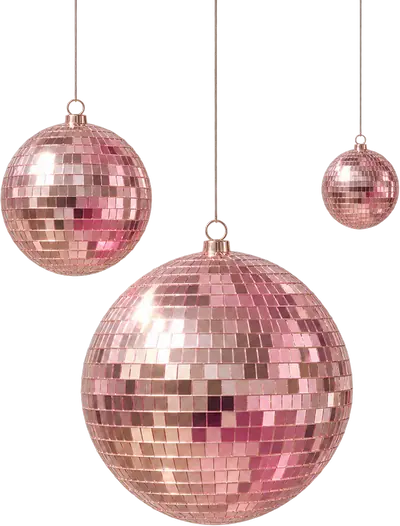
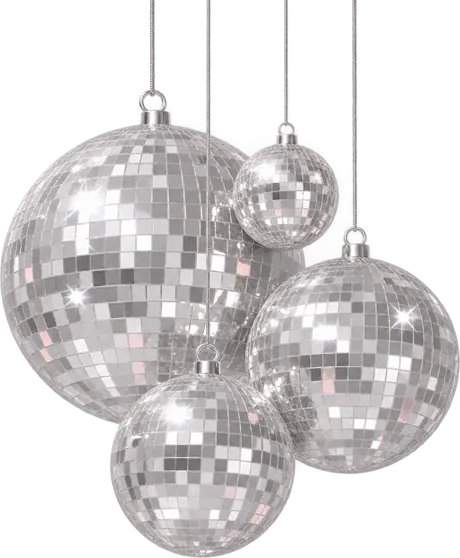
El telón es ahora una cortina de flecos, y las bolas son de espejo
Los flecos miden 8,5 px de ancho en pantalla, contra los 15 de las
lentejuelas y los 17 de un renglón: por fin el fondo es más fino que la
letra y se queda detrás en vez de competir.

Esta vez los paneles no piden prestada la silueta de las flores. La cortina
trae su propio canto —los remates desiguales abajo y el corte recto a los
lados, que es como se corta una cortina—, y las proporciones del recorte son
las de cada panel para que las tiras no se estiren. Al abrirse, las tiras se
apartan de verdad y dejan dos franjas de fleco enmarcando la fotografía.

Las esferas pasan a ser el racimo plateado de cuatro bolas de espejo, que es
lo que usa la referencia: plata, grandes y en grupo, no rosas y de una en una.

Comprobado en el Chrome de Diego: sin choques, sin desbordes, sin imágenes
rotas.

diff --git a/index.html b/index.html
@@ -11,10 +11,10 @@
 <link rel="preconnect" href="https://fonts.googleapis.com">
 <link rel="preconnect" href="https://fonts.gstatic.com" crossorigin>
 <link rel="stylesheet" href="https://fonts.googleapis.com/css2?family=Cormorant+Garamond:ital,wght@0,300;0,400;0,500;0,600;1,300;1,400&family=Jost:wght@300;400;500&family=Great+Vibes&display=swap">
-<!-- El estilo se decide antes de pintar nada: si se pusiera desde script.js?v=1795372016-e877f73
+<!-- El estilo se decide antes de pintar nada: si se pusiera desde script.js?v=1795372838-704728f
      se vería un parpadeo del estilo viejo al nuevo. Manda ?estilo= de la URL;
-     si no, lo que diga datos.js?v=1795372016-e877f73 (y por defecto, «papel»). -->
-<script src="datos.js?v=1795372016-e877f73"></script>
+     si no, lo que diga datos.js?v=1795372838-704728f (y por defecto, «papel»). -->
+<script src="datos.js?v=1795372838-704728f"></script>
 <script>
   (function () {
     var p = new URLSearchParams(location.search).get('estilo');
@@ -24,8 +24,8 @@
     if (e) try { sessionStorage.setItem('estilo', e); } catch (x) {}
   })();
 </script>
-<link rel="preload" as="image" href="assets/apertura-poster.webp?v=1795372016-e877f73">
-<link rel="stylesheet" href="styles.css?v=1795372016-e877f73">
+<link rel="preload" as="image" href="assets/apertura-poster.webp?v=1795372838-704728f">
+<link rel="stylesheet" href="styles.css?v=1795372838-704728f">
 </head>
 <body class="sin-abrir">
 
@@ -39,21 +39,21 @@
             aria-label="Abrir la invitación de Soffia">
      <span class="lienzo">
       <!-- 1 · el sobre cerrado, quieto, hasta que tocan -->
-      <img class="capa" id="capa-poster" src="assets/apertura-poster.webp?v=1795372016-e877f73" alt=""
+      <img class="capa" id="capa-poster" src="assets/apertura-poster.webp?v=1795372838-704728f" alt=""
            width="1080" height="1920" fetchpriority="high">
 
       <!-- 2 · los dos vídeos, uno detrás de otro. Son dos elementos y no uno
            con la fuente cambiada: así el segundo ya está descargado y pintado
            cuando acaba el primero, y el corte no parpadea. -->
       <video class="capa" id="video-1" muted playsinline preload="auto"
-             aria-hidden="true" src="assets/apertura-1.mp4?v=1795372016-e877f73"></video>
+             aria-hidden="true" src="assets/apertura-1.mp4?v=1795372838-704728f"></video>
       <video class="capa" id="video-2" muted playsinline preload="none"
              aria-hidden="true"></video>
 
       <!-- 3 · la hoja: es el último fotograma del segundo vídeo, así que el
            relevo no se ve. Hace falta porque el navegador tira la imagen de un
            vídeo pausado al salir de pantalla y al volver dibuja la primera. -->
-      <img class="capa" id="capa-final" src="assets/apertura-final.webp?v=1795372016-e877f73" alt=""
+      <img class="capa" id="capa-final" src="assets/apertura-final.webp?v=1795372838-704728f" alt=""
            width="1080" height="1920" fetchpriority="low">
 
       <!-- 3b · y la hoja se asienta: el fotograma del vídeo recorta un 18 %
@@ -61,7 +61,7 @@
            entera y entra creciendo hacia su tamaño real, así que el reencuadre
            se lee como el papel posándose y no como un salto. -->
       <span class="capa hoja-posada" id="hoja-posada" aria-hidden="true">
-        <img src="assets/hoja.webp?v=1795372016-e877f73" alt="" width="720" height="1168"
+        <img src="assets/hoja.webp?v=1795372838-704728f" alt="" width="720" height="1168"
              fetchpriority="low">
       </span>
 
@@ -102,7 +102,7 @@
 <!-- ══════════════ 2 · LA ILUSIÓN ══════════════ -->
 <section class="seccion s-nota" id="nota">
   <div class="costura costura-arriba invertida" aria-hidden="true"></div>
-  <img class="adorno ad-globo" src="assets/ad-globo.webp?v=1795372016-e877f73" alt="" aria-hidden="true" loading="lazy" data-parallax="0.08">
+  <img class="adorno ad-globo" src="assets/ad-globo.webp?v=1795372838-704728f" alt="" aria-hidden="true" loading="lazy" data-parallax="0.08">
 
   <div class="envoltorio">
     <p class="parrafo-grande revela" id="msj-presentacion" style="--i:0"></p>
@@ -112,8 +112,8 @@
 <!-- ══════════════ 3 · SOFFIA ══════════════ -->
 <section class="seccion s-soffia" id="soffia">
   <div class="costura costura-arriba" aria-hidden="true"></div>
-  <img class="adorno ad-brillo ad-brillo-esferas" src="assets/ad-brillo.webp?v=1795372016-e877f73" alt="" aria-hidden="true" loading="lazy" data-parallax="0.13">
-  <img class="adorno ad-esferas" src="assets/ad-esferas.webp?v=1795372016-e877f73" alt="" aria-hidden="true" loading="lazy" data-parallax="0.10">
+  <img class="adorno ad-brillo ad-brillo-esferas" src="assets/ad-brillo.webp?v=1795372838-704728f" alt="" aria-hidden="true" loading="lazy" data-parallax="0.13">
+  <img class="adorno ad-esferas" src="assets/ad-esferas.webp?v=1795372838-704728f" alt="" aria-hidden="true" loading="lazy" data-parallax="0.10">
 
   <!-- el puente: lo último que se lee antes de que se abran las rosas -->
   <div class="envoltorio">
@@ -130,13 +130,13 @@
     <div class="retrato-marco">
       <img id="foto-portada" alt="Fotografía de Soffia" hidden>
       <div class="retrato-vacio" id="retrato-vacio">
-        <img src="assets/flor-hojas.webp?v=1795372016-e877f73" alt="" loading="lazy">
+        <img src="assets/flor-hojas.webp?v=1795372838-704728f" alt="" loading="lazy">
         <p>Aquí irá la fotografía de Soffia</p>
       </div>
       <!-- tres paneles de rosas: arriba sube, izquierda y derecha se abren -->
-      <img class="velo velo-arriba" src="assets/panel-arriba.webp?v=1795372016-e877f73" alt="" loading="lazy">
-      <img class="velo velo-izq" src="assets/panel-izq.webp?v=1795372016-e877f73" alt="" loading="lazy">
-      <img class="velo velo-der" src="assets/panel-der.webp?v=1795372016-e877f73" alt="" loading="lazy">
+      <img class="velo velo-arriba" src="assets/panel-arriba.webp?v=1795372838-704728f" alt="" loading="lazy">
+      <img class="velo velo-izq" src="assets/panel-izq.webp?v=1795372838-704728f" alt="" loading="lazy">
+      <img class="velo velo-der" src="assets/panel-der.webp?v=1795372838-704728f" alt="" loading="lazy">
     </div>
     <span class="costura costura-foto arriba" aria-hidden="true"></span>
     <span class="costura costura-foto abajo" aria-hidden="true"></span>
@@ -159,7 +159,7 @@
 <!-- ══════════════ 3 · CUÁNDO Y DÓNDE ══════════════ -->
 <section class="seccion s-cuando" id="cuando">
   <div class="costura costura-arriba invertida" aria-hidden="true"></div>
-  <img class="adorno ad-guirnalda" src="assets/ad-guirnalda.webp?v=1795372016-e877f73" alt="" aria-hidden="true" loading="lazy" data-parallax="0.11">
+  <img class="adorno ad-guirnalda" src="assets/ad-guirnalda.webp?v=1795372838-704728f" alt="" aria-hidden="true" loading="lazy" data-parallax="0.11">
 
   <div class="envoltorio">
     <p class="antetitulo revela" style="--i:0">Cuándo</p>
@@ -180,7 +180,7 @@
 <!-- ══════════════ 4b · DÓNDE ══════════════ -->
 <section class="seccion s-donde" id="donde">
   <div class="costura costura-arriba" aria-hidden="true"></div>
-  <img class="adorno ad-perlas" src="assets/ad-perlas.webp?v=1795372016-e877f73" alt="" aria-hidden="true" loading="lazy" data-parallax="0.12">
+  <img class="adorno ad-perlas" src="assets/ad-perlas.webp?v=1795372838-704728f" alt="" aria-hidden="true" loading="lazy" data-parallax="0.12">
 
   <div class="envoltorio">
     <p class="antetitulo revela" style="--i:0">Dónde</p>
@@ -193,7 +193,7 @@
 <!-- ══════════════ 4 · ITINERARIO ══════════════ -->
 <section class="seccion s-itinerario" id="itinerario">
   <div class="costura costura-arriba" aria-hidden="true"></div>
-  <img class="adorno ad-mono-a" src="assets/ad-mono-a.webp?v=1795372016-e877f73" alt="" aria-hidden="true" loading="lazy" data-parallax="0.10">
+  <img class="adorno ad-mono-a" src="assets/ad-mono-a.webp?v=1795372838-704728f" alt="" aria-hidden="true" loading="lazy" data-parallax="0.10">
 
   <div class="envoltorio">
     <p class="antetitulo revela" style="--i:0">Así celebraremos</p>
@@ -210,7 +210,7 @@
 <!-- ══════════════ 5 · VESTIMENTA ══════════════ -->
 <section class="seccion s-vestir" id="vestir" hidden>
   <div class="costura costura-arriba invertida" aria-hidden="true"></div>
-  <img class="adorno ad-cintas" src="assets/ad-cintas.webp?v=1795372016-e877f73" alt="" aria-hidden="true" loading="lazy" data-parallax="0.10">
+  <img class="adorno ad-cintas" src="assets/ad-cintas.webp?v=1795372838-704728f" alt="" aria-hidden="true" loading="lazy" data-parallax="0.10">
 
   <div class="envoltorio">
     <div class="vestimenta" id="vestimenta" hidden></div>
@@ -220,8 +220,8 @@
 <!-- ══════════════ 6 · CONFIRMACIÓN ══════════════ -->
 <section class="seccion s-confirmar" id="confirmar">
   <div class="costura costura-arriba" aria-hidden="true"></div>
-  <img class="adorno ad-brillo ad-brillo-globos" src="assets/ad-brillo.webp?v=1795372016-e877f73" alt="" aria-hidden="true" loading="lazy" data-parallax="0.13">
-  <img class="adorno ad-globos" src="assets/ad-globos.webp?v=1795372016-e877f73" alt="" aria-hidden="true" loading="lazy" data-parallax="0.09">
+  <img class="adorno ad-brillo ad-brillo-globos" src="assets/ad-brillo.webp?v=1795372838-704728f" alt="" aria-hidden="true" loading="lazy" data-parallax="0.13">
+  <img class="adorno ad-globos" src="assets/ad-globos.webp?v=1795372838-704728f" alt="" aria-hidden="true" loading="lazy" data-parallax="0.09">
 
   <div class="envoltorio">
     <p class="antetitulo revela" style="--i:0">Nos vemos en mis XV</p>
@@ -233,13 +233,13 @@
 <!-- ══════════════ 7 · DESPEDIDA ══════════════ -->
 <section class="seccion s-cierre" id="cierre">
   <div class="costura costura-arriba invertida" aria-hidden="true"></div>
-  <img class="adorno ad-mono-b" src="assets/ad-mono-b.webp?v=1795372016-e877f73" alt="" aria-hidden="true" loading="lazy" data-parallax="0.10">
+  <img class="adorno ad-mono-b" src="assets/ad-mono-b.webp?v=1795372838-704728f" alt="" aria-hidden="true" loading="lazy" data-parallax="0.10">
   <!-- el cierre se monta en tres piezas: la rosa donde aterriza la que cae,
        y el follaje de cada lado, que sale de detrás cuando ya está posada -->
   <span class="flor flor-cierre-b" aria-hidden="true" data-parallax="0.09">
-    <img class="cierre-hoja cierre-izq" src="assets/flor-bajo-izq.webp?v=1795372016-e877f73" alt="" loading="lazy">
-    <img class="cierre-hoja cierre-der" src="assets/flor-bajo-der.webp?v=1795372016-e877f73" alt="" loading="lazy">
-    <img class="cierre-rosa" src="assets/flor-bajo-rosa.webp?v=1795372016-e877f73" alt="" loading="lazy">
+    <img class="cierre-hoja cierre-izq" src="assets/flor-bajo-izq.webp?v=1795372838-704728f" alt="" loading="lazy">
+    <img class="cierre-hoja cierre-der" src="assets/flor-bajo-der.webp?v=1795372838-704728f" alt="" loading="lazy">
+    <img class="cierre-rosa" src="assets/flor-bajo-rosa.webp?v=1795372838-704728f" alt="" loading="lazy">
   </span>
 
   <div class="envoltorio">
@@ -257,9 +257,9 @@
 
 <!-- la rosa que se desprende de la tarjeta y baja con el scroll -->
 <span class="petalo" id="petalo" aria-hidden="true">
-  <img class="petalo-cara" id="rosa-frente" src="assets/rosa-frente.webp?v=1795372016-e877f73" alt="">
-  <img class="petalo-cara" id="rosa-tres"   src="assets/rosa-tres.webp?v=1795372016-e877f73"   alt="">
-  <img class="petalo-cara" id="rosa-perfil" src="assets/rosa-perfil.webp?v=1795372016-e877f73" alt="">
+  <img class="petalo-cara" id="rosa-frente" src="assets/rosa-frente.webp?v=1795372838-704728f" alt="">
+  <img class="petalo-cara" id="rosa-tres"   src="assets/rosa-tres.webp?v=1795372838-704728f"   alt="">
+  <img class="petalo-cara" id="rosa-perfil" src="assets/rosa-perfil.webp?v=1795372838-704728f" alt="">
 </span>
 
 <button type="button" class="audio" id="audio" hidden aria-pressed="false"
@@ -271,6 +271,6 @@
   Vista previa
 </div>
 
-<script src="script.js?v=1795372016-e877f73"></script>
+<script src="script.js?v=1795372838-704728f"></script>
 </body>
 </html>

diff --git a/styles.css b/styles.css
@@ -71,7 +71,7 @@ body{
 body::before{
   content:''; position:fixed; inset:0; z-index:9;
   pointer-events:none;
-  background:url('assets/papel-marfil.webp?v=1795372016-e877f73') repeat;
+  background:url('assets/papel-marfil.webp?v=1795372838-704728f') repeat;
   background-size:360px 360px;
   opacity:.5; mix-blend-mode:multiply;
 }
@@ -218,8 +218,8 @@ body.hoja-posada-lista .hoja-posada img{ opacity:1; transform:none; }
 /* la máscara deja ver la tarjeta solo por encima de la V de la solapa */
 .marco-tarjeta{
   position:absolute; inset:0; display:block;
-  -webkit-mask-image:url('assets/mascara-tarjeta.png?v=1795372016-e877f73');
-          mask-image:url('assets/mascara-tarjeta.png?v=1795372016-e877f73');
+  -webkit-mask-image:url('assets/mascara-tarjeta.png?v=1795372838-704728f');
+          mask-image:url('assets/mascara-tarjeta.png?v=1795372838-704728f');
   -webkit-mask-size:100% 66.5072%;
           mask-size:100% 66.5072%;
   -webkit-mask-position:top left;  mask-position:top left;
@@ -425,7 +425,7 @@ main{ display:block; }
 /* costuras de papel rasgado entre secciones */
 .costura{
   position:absolute; top:-2px; left:0; width:100%; height:clamp(26px,6.4vw,40px);
-  background:url('assets/tira-papel.webp?v=1795372016-e877f73') center bottom / 100% 100% no-repeat;
+  background:url('assets/tira-papel.webp?v=1795372838-704728f') center bottom / 100% 100% no-repeat;
   z-index:1; pointer-events:none;
   filter: drop-shadow(0 3px 5px rgba(130,97,80,.1));
 }

diff --git a/script.js b/script.js
@@ -48,7 +48,7 @@ let   abierto   = false;
    aparecen las letras encima. Los dos vídeos van en dos elementos distintos:
    el segundo se precarga mientras corre el primero, así el corte entre ellos
    no parpadea (el último fotograma de uno es el primero del otro). */
-const VIDEOS = ['assets/apertura-1.mp4?v=1795372016-e877f73', 'assets/apertura-2.mp4?v=1795372016-e877f73'];
+const VIDEOS = ['assets/apertura-1.mp4?v=1795372838-704728f', 'assets/apertura-2.mp4?v=1795372838-704728f'];
 
 /* El texto va centrado sobre LA HOJA, no sobre la pantalla. La hoja cambia
    de tamaño y de sitio según la proporción del móvil, así que un porcentaje
@@ -203,7 +203,7 @@ if (MODO === 'video' && !yaAbierto && !QUIETO) {
   setTimeout(pedirSegundo, 2500);          // red lenta: no esperamos para siempre
 }
 
-/* ══════════════ 2 · CONTENIDO DESDE datos.js?v=1795372016-e877f73 ══════════════ */
+/* ══════════════ 2 · CONTENIDO DESDE datos.js?v=1795372838-704728f ══════════════ */
 
 if (PREVIA && $('#aviso-previa')) $('#aviso-previa').hidden = false;
 
